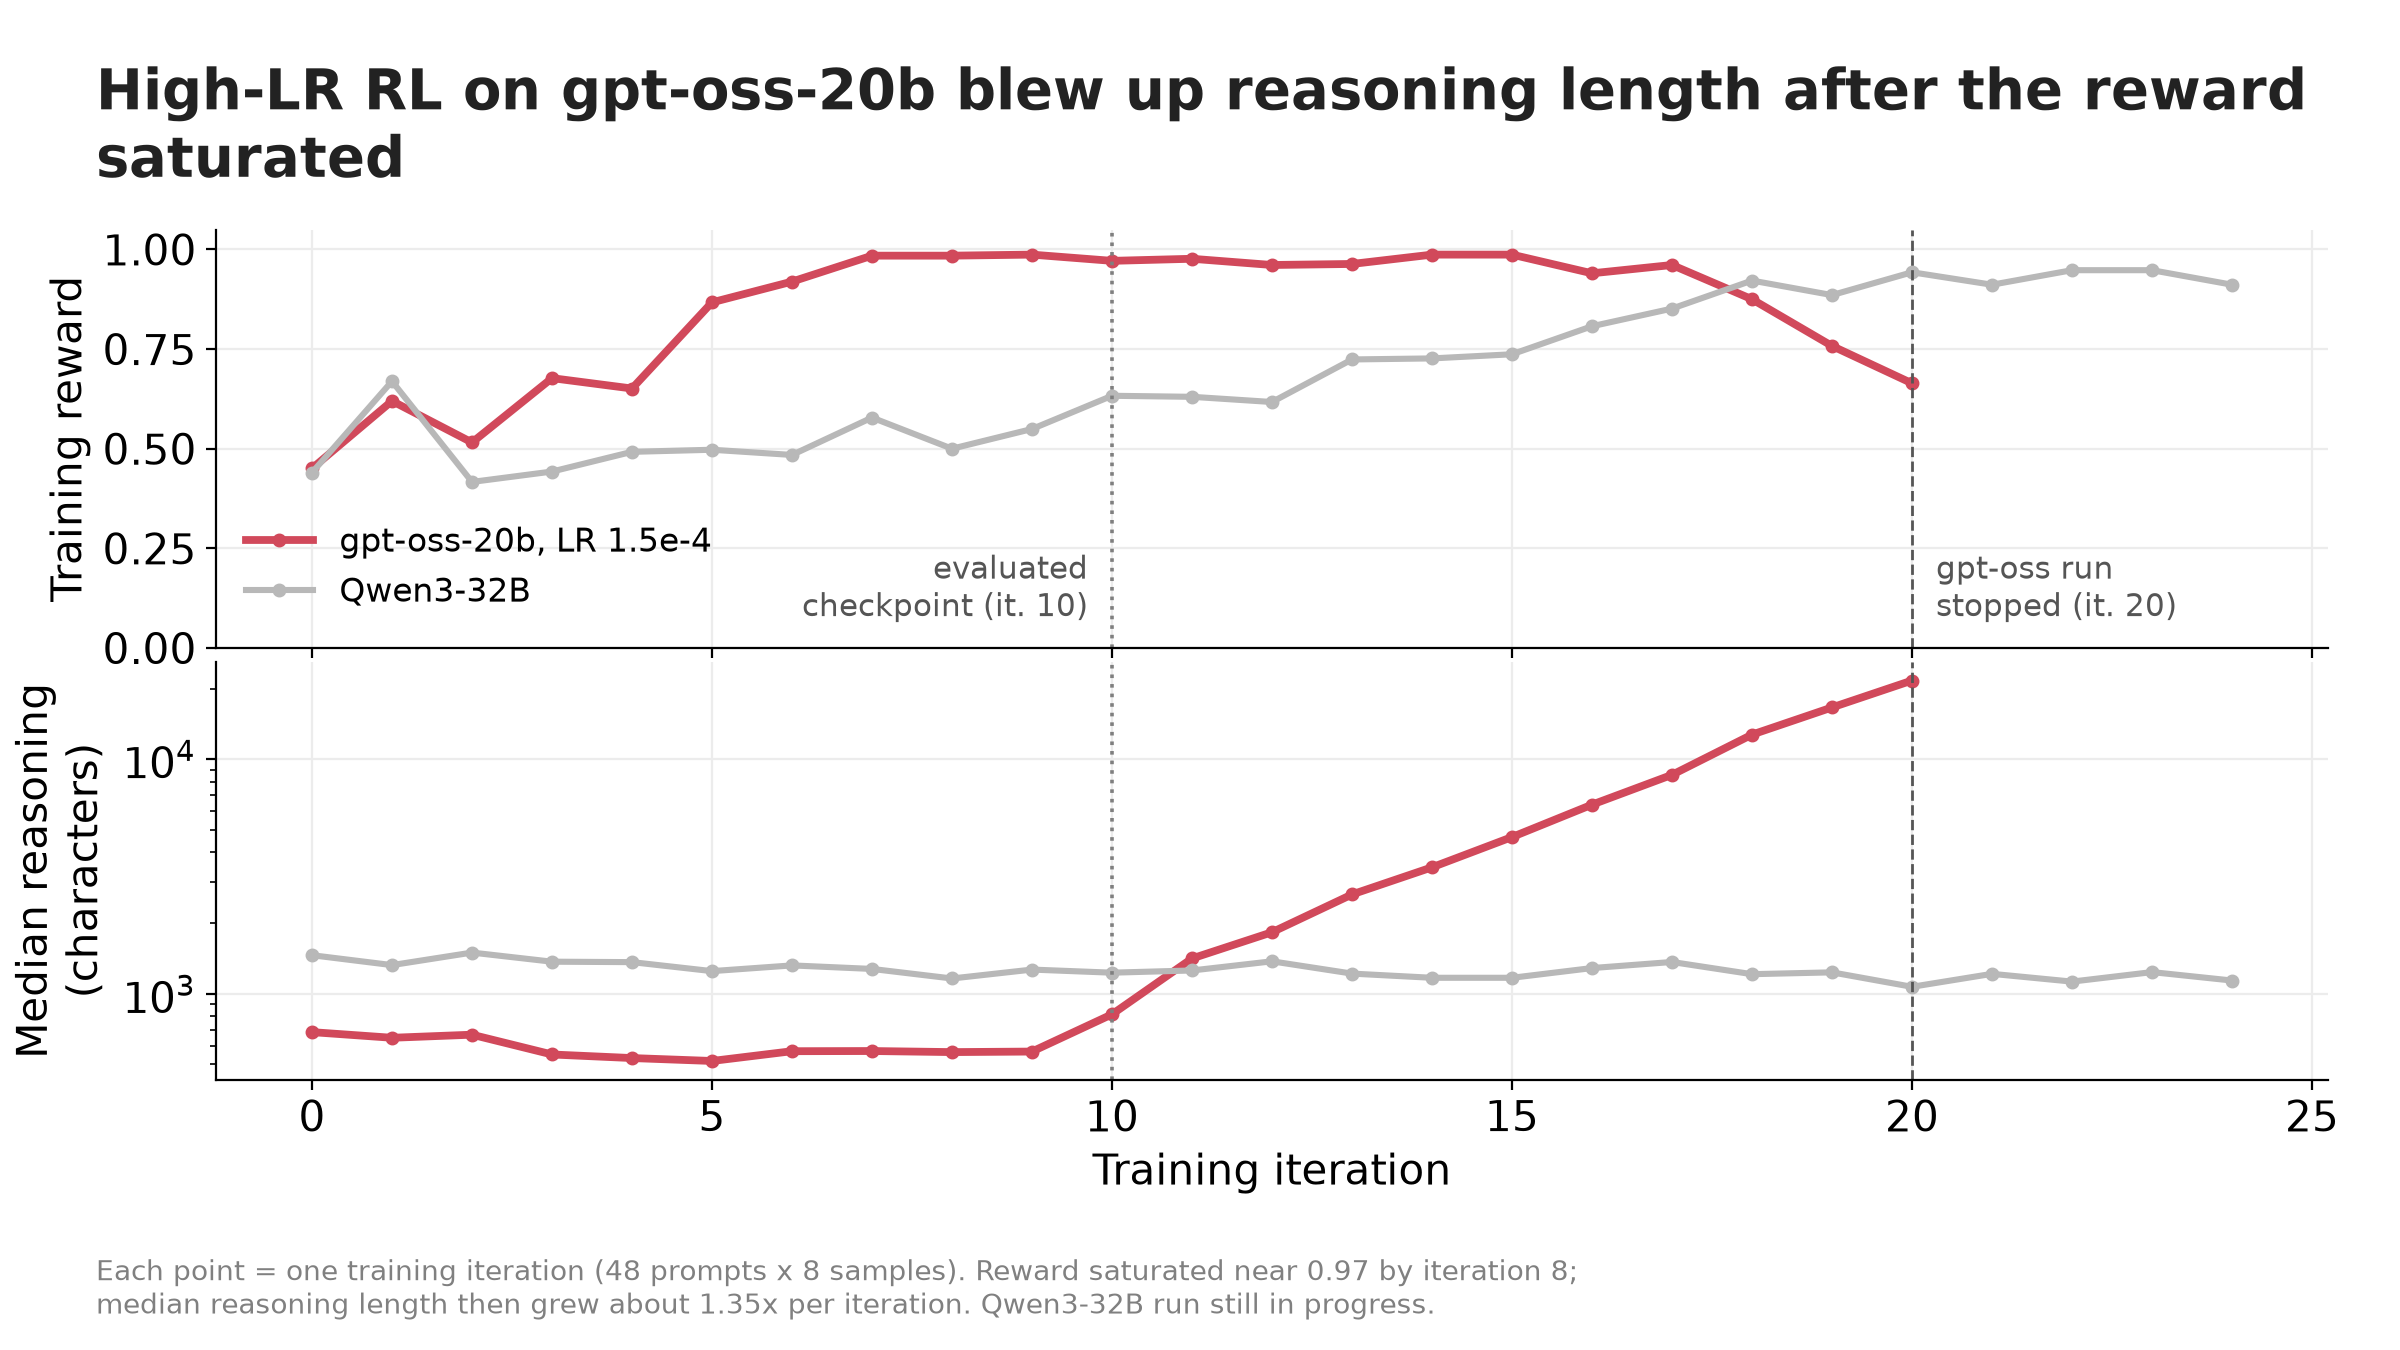
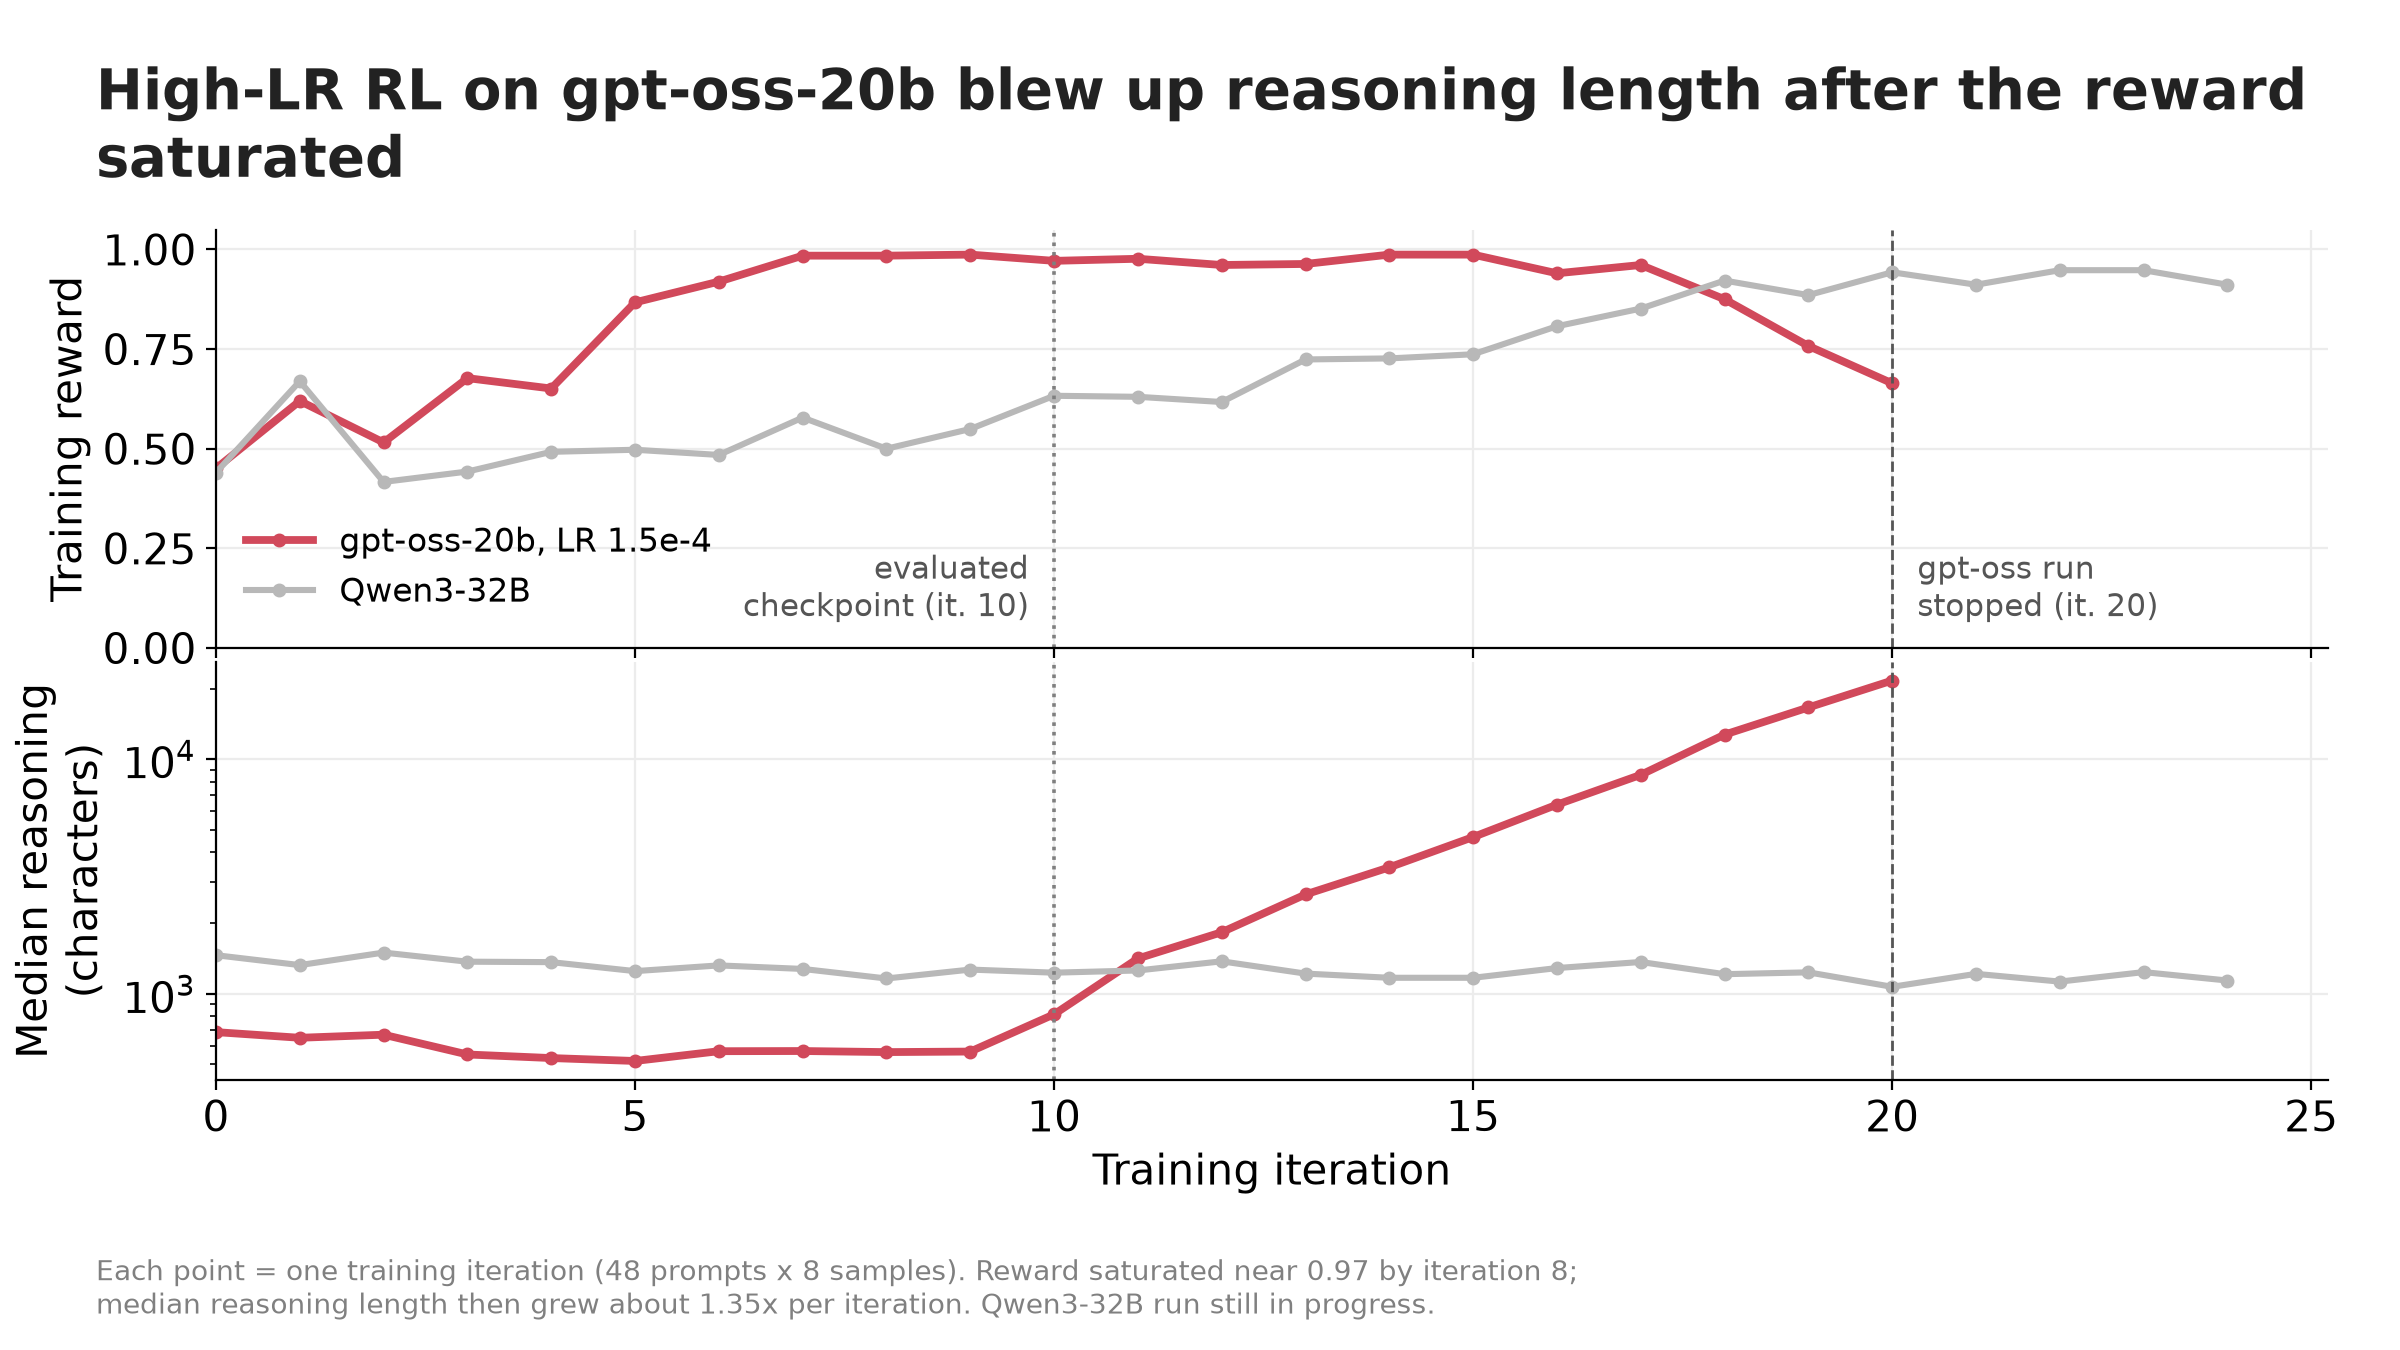
Orange figs: RL dynamics x-axis starts at iteration 0

diff --git a/kaushik/elicit/orange/make_figures.py b/kaushik/elicit/orange/make_figures.py
@@ -179,7 +179,7 @@ def fig3():
         info[lab] = (int(df.iteration.max()), float(df.reward_mean.iloc[-1]), float(df.reasoning_chars_median.iloc[-1]))
     bot.set_yscale("log")
     top.set_ylabel("Training reward"); bot.set_ylabel("Median reasoning\n(characters)")
-    top.set_ylim(0, 1.05); bot.set_xlabel("Training iteration")
+    top.set_ylim(0, 1.05); top.set_xlim(left=0); bot.set_xlabel("Training iteration")
     plt.setp(top.get_xticklabels(), visible=False)
     for ax in (top, bot):
         ax.axvline(20, color="#555", ls="--", lw=1)
